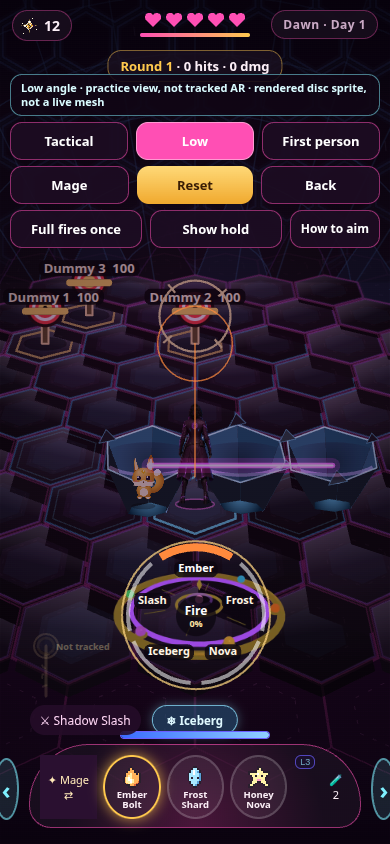
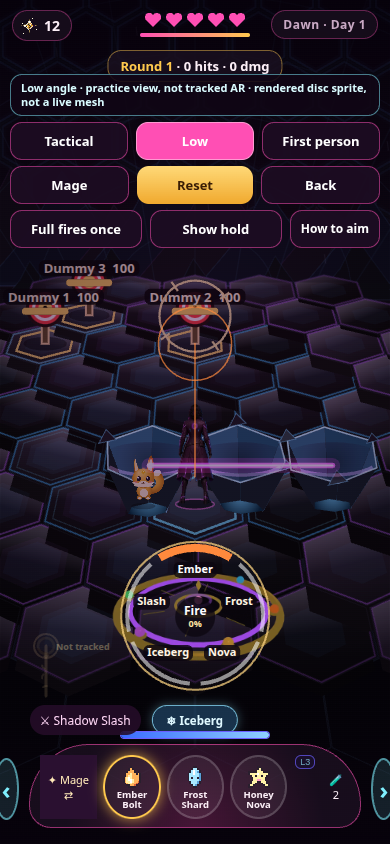
Let a map raid aim Ember at your own ice wall
A held press in the dome raid shows Ice wall, Enemy, or Ground, and a release on the wall deals Ember damage. Swipes, other spells, empty ground, and a cancelled touch leave the wall alone. The regression drives that with real pointer events.

diff --git a/v7/index.html b/v7/index.html
@@ -1689,8 +1689,9 @@ function drawWireUnder(cam, tiles, T, sc) {
 }
 /* overlay: pink seams that glow through the painted tiles, brighter where a pulse front passes */
 function drawWireOver(cam, tiles, T, sc) {
-  const m = wireMix(), g = ctx, base = .1 + m * .5 + WIRE.glow * .3;
-  g.strokeStyle = `rgba(255,79,180,${Math.min(1, base)})`; g.lineWidth = 1.1 + m; g.beginPath(); for (const t of tiles) addHex(cam, t.x, t.y, .97, g); g.stroke();
+  const m = wireMix(), g = ctx, raid = sc === 'arena' && AR.kind === 'raid';
+  const base = raid ? .07 : .1 + m * .5 + WIRE.glow * .3;
+  g.strokeStyle = raid ? `rgba(150,190,220,${base})` : `rgba(255,79,180,${Math.min(1, base)})`; g.lineWidth = raid ? 1 : 1.1 + m; g.beginPath(); for (const t of tiles) addHex(cam, t.x, t.y, .97, g); g.stroke();
   if (WIRE.pulses.some(p => p.sc === sc)) {
     g.globalCompositeOperation = 'lighter';
     for (const t of tiles) { const a = pulseAt(t.x, t.y, sc); if (a < .05) continue; g.strokeStyle = `rgba(255,110,200,${Math.min(1, a)})`; g.lineWidth = 2.4; g.beginPath(); addHex(cam, t.x, t.y, .96, g); g.stroke(); }
@@ -1828,7 +1829,11 @@ function arenaUpdate(dt) {
   if (AR.novaT >= 0) { AR.novaT += dt; if (AR.novaT > .9) AR.novaT = -1; }
   if (AR.phase === 'claim') { AR.claimK += dt / 2.2; if (AR.claimK >= 1 && !AR.claimed) claimEnd(); }
   // charging
-  if (AR.ptr && !AR.ptr.swiped) AR.ptr.held = (performance.now() - AR.ptr.t0) / 1000;
+  if (AR.ptr && !AR.ptr.swiped) {
+    const p = AR.ptr; p.held = (performance.now() - p.t0) / 1000;
+    // A still finger never emits a move, so the raid aim ring arms from the frame clock.
+    if (raidEmberAim() && p.held > .26) { p.armed = true; p.aiming = true; p.aim = aimWorld(p.x, p.y); }
+  }
   updWheel();
 }
 function rewind() {
@@ -1912,10 +1917,50 @@ function arenaDown(X, Y) {
   if (AR.phase === 'spike') { startNodes(); return; }
   AR.ptr = { x0: X, y0: Y, x: X, y: Y, t0: performance.now(), target: mobAt(X, Y), swiped: false, held: 0 };
 }
-function arenaMove(X, Y) { const p = AR.ptr; if (!p || p.swiped) return; p.x = X; p.y = Y; const dx = X - p.x0, dy = Y - p.y0; if (p.held < .45) { if (Math.abs(dx) > 38 && Math.abs(dx) > Math.abs(dy) * 1.3) { p.swiped = true; moveP(dx > 0 ? 1 : -1, 0); } else if (Math.abs(dy) > 38 && Math.abs(dy) > Math.abs(dx) * 1.3) { p.swiped = true; moveP(0, dy > 0 ? 1 : -1); } } }
+function raidEmberAim() { return !TRAIN.on && AR.kind === 'raid' && ['wave', 'nodes'].includes(AR.phase) && AR.sel === 0; }
+function aimWorld(X, Y) { const w = unproj(AR.cam, X, Y); return { x: w[0], y: w[1] }; }
+function arenaMove(X, Y) {
+  const p = AR.ptr; if (!p || p.swiped) return; p.x = X; p.y = Y;
+  const dx = X - p.x0, dy = Y - p.y0, held = (performance.now() - p.t0) / 1000, travel = Math.hypot(dx, dy);
+  // A flick still steps. Aim arms only after the finger rests, so a swipe is not a wall target.
+  if (!p.aiming && held < .26 && travel > 38) {
+    if (Math.abs(dx) > Math.abs(dy) * 1.3) { p.swiped = true; moveP(dx > 0 ? 1 : -1, 0); return; }
+    if (Math.abs(dy) > Math.abs(dx) * 1.3) { p.swiped = true; moveP(0, dy > 0 ? 1 : -1); return; }
+  }
+  if (raidEmberAim() && !p.swiped && held > .26) { p.armed = true; p.aiming = true; p.aim = aimWorld(X, Y); }
+}
+function emberPower(held) { return held > .22 ? Math.max(.5, 1.6 * clamp((held - .18) / .8, 0, 1)) : 1; }
+function raidAimKind(X, Y, aim) {
+  if (mobAt(X, Y)) return 'mob';
+  if (aim && typeof aimedOwnWall === 'function' && aimedOwnWall(aim)) return 'wall';
+  return 'ground';
+}
+function releaseEmberAt(X, Y, aim, power) {
+  const kind = raidAimKind(X, Y, aim);
+  if (kind === 'wall') {
+    const wall = aimedOwnWall(aim);
+    if (AR.cds[0] > 0 || !spendMana(MANA_COST.spell)) return 'no';
+    AR.cds[0] = SPELLS[0].cd; AR.castT = .25; G.day.casts++;
+    wallHit(Math.round(SPELLS[0].dmg * power), wall.x, wall.y); SFX.cast();
+    return 'wall';
+  }
+  if (kind === 'mob') { cast(0, power, mobAt(X, Y)); return 'mob'; }
+  if (AR.cds[0] > 0 || !spendMana(MANA_COST.spell)) return 'no';
+  AR.cds[0] = SPELLS[0].cd; AR.castT = .25; G.day.casts++;
+  if (typeof paintField === 'function') paintField('ember', aim);
+  SFX.cast();
+  return 'ground';
+}
 function arenaUp(X, Y) {
   const p = AR.ptr; AR.ptr = null; if (!p || p.swiped) return;
-  const held = (performance.now() - p.t0) / 1000, tgt = mobAt(X, Y) || p.target;
+  const held = (performance.now() - p.t0) / 1000;
+  const aim = aimWorld(X, Y);
+  // Ember in a map raid: a rested drag, or a tap that lands on your own wall and not on a creature.
+  if (raidEmberAim() && (p.aiming || (!mobAt(X, Y) && typeof aimedOwnWall === 'function' && aimedOwnWall(aim)))) {
+    releaseEmberAt(X, Y, p.aiming && p.aim ? p.aim : aim, emberPower(held));
+    return;
+  }
+  const tgt = mobAt(X, Y) || p.target;
   if (held > .22) { const k = clamp((held - .18) / .8, 0, 1); cast(AR.sel, Math.max(.5, 1.6 * k), tgt); }
   else cast(AR.sel, 1, tgt);
 }
@@ -2004,7 +2049,15 @@ function drawArena(T) {
   const c = AR.cam;
   if (AR.floorDirty) renderArenaFloor();
   const sh = AR.shake > 0 ? AR.shake * 6 : 0; ctx.save(); if (sh) ctx.translate((Math.random() - .5) * sh, (Math.random() - .5) * sh);
-  drawWireUnder(c, AHEX, T, 'arena'); ctx.globalAlpha = surfaceAlpha(); ctx.drawImage(acv, 0, 0, W, H); ctx.globalAlpha = 1; drawLowAir(T); drawWireOver(c, AHEX.filter(h => h.d <= 4), T, 'arena'); drawRaidShimmer(c, T);
+  if (AR.kind === 'raid') {
+    // The pink underworld reads as hot seams once the floor is translucent. Raid plates stay opaque; gaps are a dim cyan lattice.
+    ctx.fillStyle = '#07060c'; ctx.fillRect(0, 0, W, H);
+    ctx.strokeStyle = 'rgba(110,160,200,.16)'; ctx.lineWidth = 1; ctx.beginPath();
+    for (const t of AHEX) if (t.d <= 5) addHex(c, t.x, t.y, .99, ctx);
+    ctx.stroke();
+    ctx.drawImage(acv, 0, 0, W, H);
+  } else { drawWireUnder(c, AHEX, T, 'arena'); ctx.globalAlpha = surfaceAlpha(); ctx.drawImage(acv, 0, 0, W, H); ctx.globalAlpha = 1; }
+  drawLowAir(T); drawWireOver(c, AHEX.filter(h => h.d <= 4), T, 'arena'); drawRaidShimmer(c, T);
   if (TRAIN.on && TRAIN.pulses) for (const p of TRAIN.pulses) {
     const k = clamp(1 - p.t / 0.42, 0, 1), [x, y] = hexXY(p.q, p.r);
     hexPath(c, x, y, 0.82); ctx.globalAlpha = 0.28 * k; ctx.fillStyle = p.col; ctx.fill();
@@ -2042,6 +2095,18 @@ function drawArena(T) {
     else if (s[1] === 5) drawChunk(s[2], T);
     else if (s[1] === 2) drawBlock(T);
     else drawSpike(T);
+  }
+  if (AR.ptr && AR.ptr.aiming && raidEmberAim()) {
+    const kind = raidAimKind(AR.ptr.x, AR.ptr.y, AR.ptr.aim);
+    const label = kind === 'wall' ? 'Ice wall' : kind === 'mob' ? 'Enemy' : 'Ground';
+    ctx.save(); ctx.globalAlpha = 1;
+    ctx.strokeStyle = kind === 'wall' ? '#ffd36a' : kind === 'mob' ? '#ff8ad0' : '#ff8a3d'; ctx.lineWidth = kind === 'wall' ? 3 : 2;
+    ctx.beginPath(); ctx.arc(AR.ptr.x, AR.ptr.y, 22, 0, TAU); ctx.stroke();
+    ctx.font = '800 14px ui-rounded, system-ui, sans-serif'; ctx.textAlign = 'center'; ctx.textBaseline = 'middle';
+    const tw = ctx.measureText(label).width, lx = AR.ptr.x, ly = AR.ptr.y - 40;
+    ctx.fillStyle = 'rgba(12,6,16,.9)'; rrect(ctx, lx - tw / 2 - 8, ly - 11, tw + 16, 22, 8); ctx.fill();
+    ctx.fillStyle = kind === 'wall' ? '#ffe7a4' : '#ffd8c4'; ctx.fillText(label, lx, ly);
+    ctx.restore();
   }
   drawWallWeak(T); drawFieldTop(c, T); drawFog(c, T); drawSlashFX(c, T);
   drawLines(c, T); drawLock(c, T);
@@ -4023,13 +4088,13 @@ function syncViewBtns() {
   if (note) note.textContent = name + ' · practice view, not tracked AR · ' + discSkinLabel();
 }
 function interruptCharge(msg) {
-  const held = !!(TRAIN.cap || AR.ptr);
+  const held = !!(TRAIN.cap || AR.ptr), disc = !!TRAIN.cap;
   TRAIN.cap = null;
   TRAIN.drag = null;
   AR.ptr = null;
   TRAIN.charge = 0;
   TRAIN.spent = false;
-  if (held && msg) showCast(msg);
+  if (held && msg && (TRAIN.on || disc)) showCast(msg);
   return held;
 }
 function setTrainView(v) {
@@ -4052,7 +4117,7 @@ function rimIndex(dx, dy, n) {
   return Math.floor(a / (TAU / n)) % n;
 }
 function discHit(X, Y) {
-  if (G.scene !== 'arena') return null;
+  if (!TRAIN.on || G.scene !== 'arena') return null;
   const d = discCenter(), R = discRadius(), dx = X - d.x, dy = Y - d.y, r = Math.hypot(dx, dy);
   if (r > R + 16) return null;
   if (r < Math.max(28, R * 0.4)) return { part: 'center' };
@@ -4298,7 +4363,7 @@ function drawDiscSprite(img, R) {
   ctx.drawImage(img, -dw / 2, -dh / 2 + R * 0.02, dw, dh);
 }
 function drawDisc() {
-  if (G.scene !== 'arena') return;
+  if (!TRAIN.on || G.scene !== 'arena') return;
   const d = discCenter(), rim = currentRim(), key = GUN.cls === 'gunner' ? 'gunner' : 'mage';
   const sel = TRAIN.sel[key] || 0, cur = rim[sel], x = d.x, y = d.y, R = discRadius(), n = rim.length, rot = discRot();
   const custom = discImageOk(window.__discArt) ? window.__discArt : null;

diff --git a/v7/HANDOFF.md b/v7/HANDOFF.md
@@ -10,7 +10,8 @@ Live `/v7/` on main is unchanged. Nothing here was merged or deployed.
 - Views: **Tactical** is the default. **Low** is an optional closer-to-the-floor arena camera (same aim math). **First person** is unchanged. Details are below.
 - Gunner: holding does not fire. The shot happens on release.
 - Slash cuts the hexes you aimed. The first step into a trench says to tap again, including when the fight clock is still 0. The next step enters. Ember on that trench is a lava seam and burns while you stand in it. Reset and the 14 second life both clear it. A mob that walks into the cut is stopped by the same obstacle check the arena uses.
-- Iceberg raises your wall at 90 HP. Ember aimed at that wall, on the glowing center, hits for 40 (weak point, 2×). Three of those remove it: cracked hexes and ice chunks. Frost and a shot at empty ground do not damage it. A lift after the cast does not hit again.
+- Training yard, Mage disc: Iceberg raises your wall at 90 HP. Ember aimed at that wall, on the glowing center, hits for 40 (full-charge power 1.65, weak point 2×). Three of those remove it: cracked hexes and ice chunks. Frost and a shot at empty ground do not damage it. A lift after the cast does not hit again.
+- Map raid, Ember on the spell wheel, Tactical and Low: hold the field about a quarter second and a ring labels **Ice wall**, **Enemy**, or **Ground**. Release on your own wall to hit it. A hold of about a second is 19 damage, 38 on the center. Three center holds shatter 90. A short tap on the wall is 12, or 24 on the center. Empty ground paints fire and does not hit the wall. A finger on a creature casts at that creature. Frost and Honey do not use this aim. A fast swipe still steps. A cancelled touch does not cast. The training disc is not drawn in the map raid, so it does not cover the wall. The spell wheel, dodge, Iceberg button, and swipes stay.
 - Gel King bout is on the title. A full fight from 160 HP, without editing his health, can be won with Ember while stepping off red. One run of the test below did that in 7 casts.
 - Raid: walk to the dome, **Enter the raid dome**, then tap the glass block. That punch starts the wave. **Back to the map** uses `endArena()` and returns to the map.
 
@@ -26,7 +27,12 @@ From the repo, with the page already served at `http://127.0.0.1:8765/v7/` and C
 CHROME=/usr/local/bin/google-chrome node v7/regress.mjs
 ```
 
-The file covers the list above: Ember on your own iceberg, Gel King from full health to clear, trench step at time 0 plus expiry, reset, mob block, and burn, raid enter / punch / back, Gunner hold versus release, Mage early / full / lift / view-switch. It also checks 320×568, 390×844, and 844×390 that the training buttons and the cast line do not cover the dummies or the player, and that the page does not scroll. Last run: all passed.
+Two kinds of check live in that file. Do not treat them as the same thing.
+
+- **Helper-level.** These call game functions. They do not move the pointer. Mage early / full / lift / view-switch and the Gunner hold versus release go through `releaseDisc`, `releaseMage`, and `trainUpdate`. The training iceberg (90 HP, weak 40, three-hit shatter, frost and empty ground) also calls `releaseMage`. The trench step, mob block, lava burn, expiry, and reset call `moveP`, `mobObstacle`, and `slashLine`. The Gel King fight calls `releaseMage` from 160 HP. None of these invoke `wallHit` directly, and none of them are a finger on the raid canvas.
+- **UI-interaction.** These use real clicks and pointer events on the page. Raid enter, the glass punch, and Back are clicks. The map-raid wall test, `raidWallPointer`, enters from the map, punches, clicks Iceberg, and then uses `mouse` down / move / up. It does not call `wallHit` or `releaseMage`. For Tactical and Low, at 320×568, 390×844, and 844×390, it checks: a live enemy is on screen, empty ground leaves the wall at 90, a swipe steps and does not hit the wall, pointercancel does not hit, Frost on the wall does not damage it, the hold reports Ice wall, and Ember center holds of about a second deal 38 and shatter. It also checks 320×568, 390×844, and 844×390 that the training buttons and the cast line do not cover the dummies or the player, and that the page does not scroll.
+
+Last run of the whole file, helper checks and the pointer cases together, passed.
 
 ## Pictures
 
@@ -54,7 +60,11 @@ Tactical stays the default at camera angle 0.8.
 
 Low uses the same `proj` / `unproj` as Tactical, at angle 1.0. Plate edges are thicker, seam glow is lower, and the back of a raid is two ranges of dark rock rising from the horizon with a thin cyan or purple edge. While Low is on, a few dim streaks drift in that sky. They do not wet hexes and they are not a weather spell. On a cozy setting those streaks are skipped. The rocks are drawn once into the floor cache, not every frame.
 
-A map raid checked in `v7/regress.mjs` starts at angle 0.8 with the Low button showing and the map row hidden, switches to angle 1 and back, then returns to the map with the map row visible. Separate play of that raid (phone and landscape) punched the glass block, cut a trench with Shadow Slash, raised the iceberg, and broke it with the existing center hit (40, three times). That shatter is the same wall hit enemy shots already use. The raid wheel still has no ground aim, so you do not drag onto the wall the way the yard disc does.
+A map raid checked in `v7/regress.mjs` starts at angle 0.8 with the Low button showing and the map row hidden, switches to angle 1 and back, then returns to the map with the map row visible.
+
+Room-raid Ember aim, both cameras: hold the canvas with Ember selected. After about a quarter second the ring labels the point under your finger. Release on the wall to damage it. A fast swipe still changes hex and does not cast. The pictures below are that raid after a normal map enter, with a live slime and the player, then the ring on the wall, then the shatter. They are not a `wallHit` fixture.
+
+The raid floor is drawn opaque. The hot-pink underworld used to show through the gaps between plates (default neon is 0.3, so the floor was partly see-through). Near seams stay cyan and far seams stay purple, which is the reference's restrained edge color rather than a pink bar. The red edge during a fight is the existing danger vignette, not a seam.
 
 What this is not: the paintings’ wide canyon and huge cliffs. The pits stay one hex. The rocks are simple peaks, not a sculpted range. A steeper angle than 1.0 pushed side targets off the screen, so it was not kept.
 
@@ -63,6 +73,20 @@ What this is not: the paintings’ wide canyon and huge cliffs. The pits stay on
 ![Room raid, Low](handoff/room_low_phone_start.png)
 
 ![Room raid after the cut and the shatter, Low](handoff/room_low_phone.png)
+
+Ordinary map raid, before the wall. Player, fox, and a live slime:
+
+![Raid before the wall](handoff/raid_play_before.png)
+
+Hold on the wall. The ring says Ice wall:
+
+![Raid aim ring](handoff/raid_aim_ring.png)
+
+After the aimed Ember holds. Shattered, player and slime still there:
+
+![Raid after shatter, tactical](handoff/raid_after_tac.png)
+
+![Raid after shatter, Low](handoff/raid_after_low.png)
 
 ![Tactical](handoff/tac_before.png)
 
